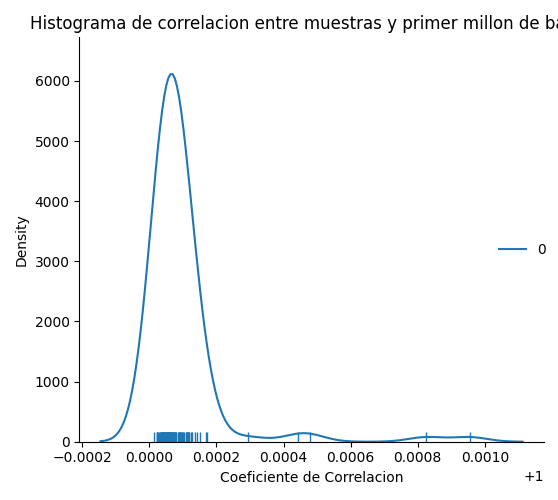
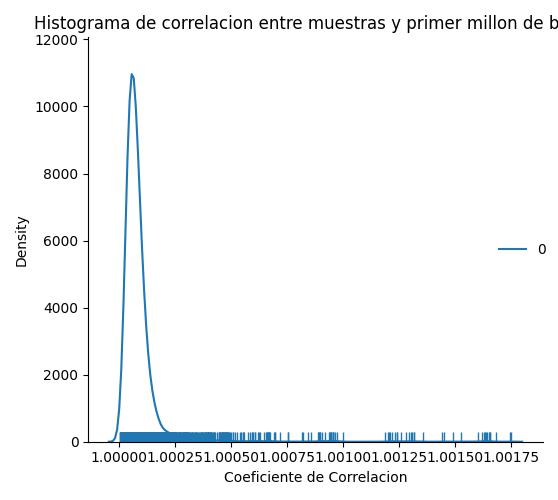
ADD for 10,000 random samples

diff --git a/proyecto/scripts/Mutual.py b/proyecto/scripts/Mutual.py
@@ -91,9 +91,8 @@ def random_sampling_corr(seq, samples=1000000):
     mutual_info_samples = []
     print(L)
     print(subseq[0:500])
-    for sample in range(0,100):
+    for sample in range(0,10000):
         interval = random.randrange(0, L-5000)
-        print('intervalo de seq', interval)
         small_sample = subseq[interval:interval+5001]
         I = []
         K = 50
@@ -122,7 +121,6 @@ def get_corr_against_gen(sequence):
         for sample in samples_mutual_info:
             current_corr =np.correlate(seq_mutual_info,sample)
             corrs.append(current_corr)
-            print('corr',current_corr)
         print('tammaño arreglo corr', len(corrs))
         
         corrs = np.array(corrs)
